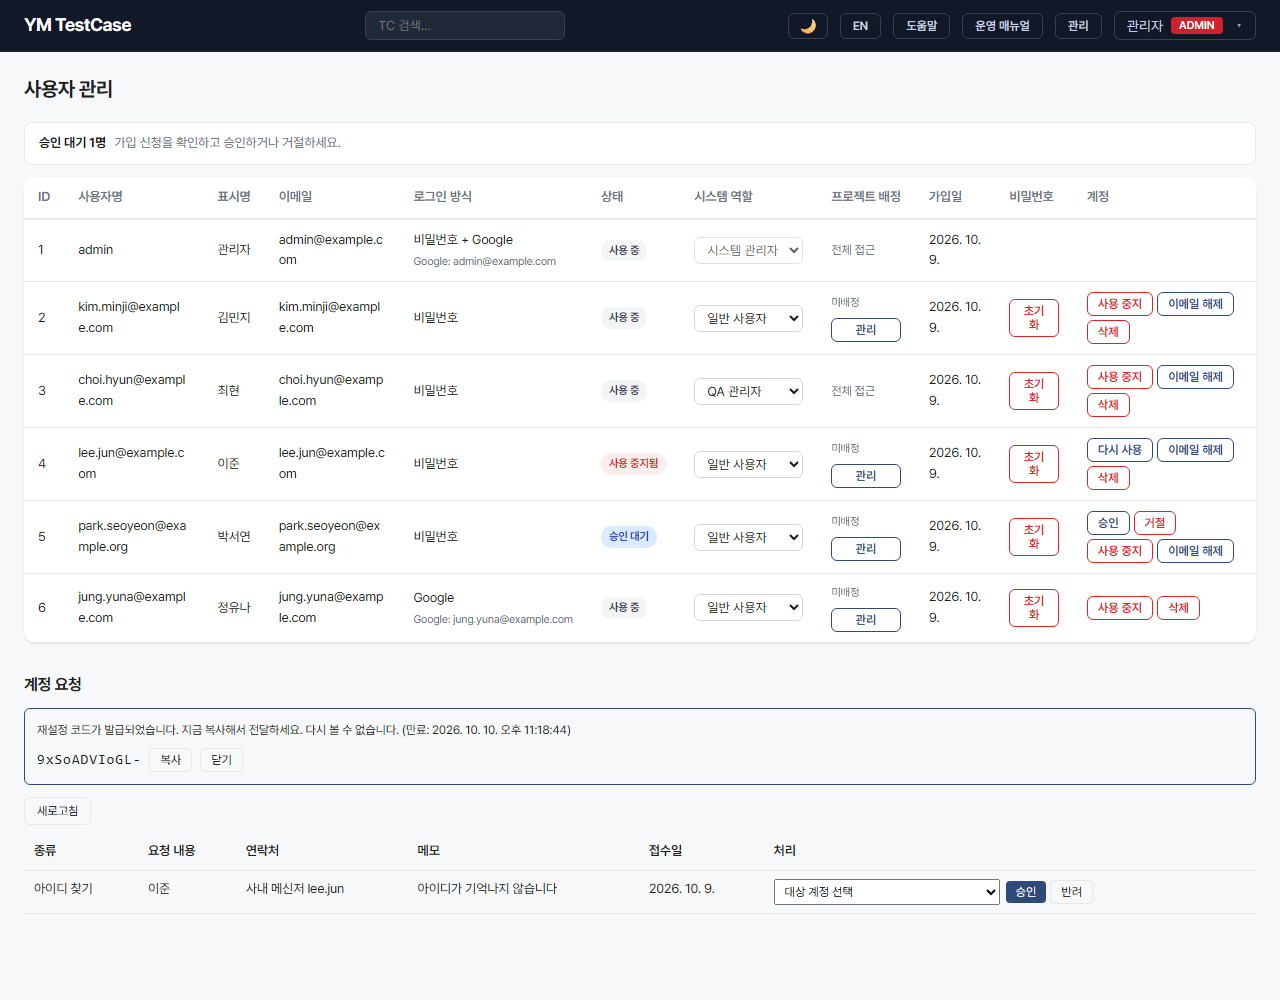
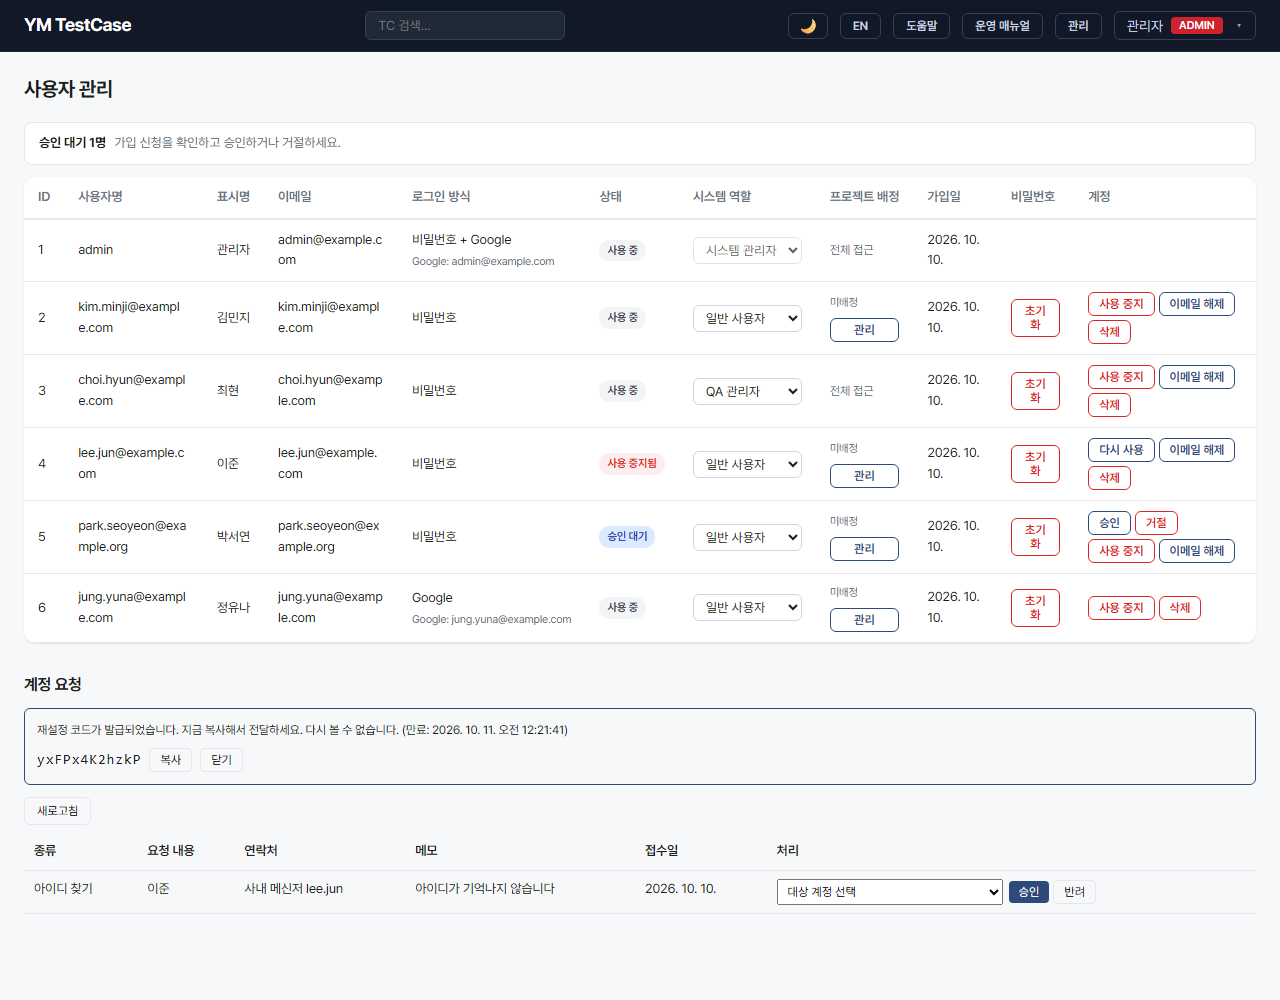
docs: 초기화 그림 재촬영과 사내 업무 가이드 갱신 (SYM-167, SYM-168)
- 운영 매뉴얼 그림 25 를 '비밀번호 초기화 완료' 창으로 재촬영
- capture-all-manual, capture-readme 의 01/02/22/25 저장 제거(소유는 capture-auth-manual)
- md 운영 매뉴얼에 5-5-2 계정 복구 요청 승인 절과 그림 25/39/40 연결
- 사내 업무 가이드 초안: 계정 발급·권한·사용자 관리·PostgreSQL·환경변수·백업·트러블슈팅·FAQ 갱신
- 가져오기 형식, 헤더 행 19행, PDF 폰트, React 19, Python 3.11~3.14, Vercel, 초기화 버튼 라벨을 코드 기준으로
- System 2.2.0.4 / FE 1.13.0.3

diff --git a/frontend/e2e/capture-auth-manual.spec.ts b/frontend/e2e/capture-auth-manual.spec.ts
@@ -1,5 +1,5 @@
 /**
- * 매뉴얼 스크린샷: 로그인 · 가입 · 계정 연결 · 사용자 관리 · 계정 요청 (System 2.2.0.1)
+ * 매뉴얼 스크린샷: 로그인 · 가입 · 계정 연결 · 사용자 관리 · 비밀번호 초기화 · 계정 요청 (System 2.2.0.4)
  *
  * 실제 DB 를 쓰지 않는다. 빈 DB 를 따로 만들고 격리 포트로 띄운다.
  * 1. 빈 DB 를 만들고 백엔드를 8018 로 띄운다. 환경변수:
@@ -33,6 +33,8 @@ async function shot(page: Page, name: string, fullPage = false) {
 test("인증 화면 매뉴얼 스크린샷", async ({ page, request }) => {
   test.setTimeout(60000);
   await page.setViewportSize({ width: 1280, height: 800 });
+  // 비밀번호 초기화가 confirm() 을 띄운다
+  page.on("dialog", (d) => void d.accept());
 
   // 01. 로그인 (Google 버튼 포함)
   await page.goto("/login");
@@ -50,10 +52,14 @@ test("인증 화면 매뉴얼 스크린샷", async ({ page, request }) => {
   await page.getByRole("button", { name: "로그인", exact: true }).click();
   await expect(page).toHaveURL(/\/projects/, { timeout: 10000 });
 
-  // 22, 25. 사용자 관리 (승인 대기 배너, 로그인 방식, 상태, 계정 버튼)
+  // 22. 사용자 관리 (승인 대기 배너, 로그인 방식, 상태, 계정 버튼)
   await page.goto("/admin");
   await expect(page.getByText("Google: admin@example.com")).toBeVisible();
   await shot(page, "22_admin_page.png");
+
+  // 25. 비밀번호 초기화 뒤 임시 비밀번호 창
+  await page.getByRole("row", { name: /kim\.minji@example\.com/ }).getByRole("button", { name: "초기화" }).click();
+  await expect(page.getByRole("heading", { name: "비밀번호 초기화 완료" })).toBeVisible();
   await shot(page, "25_admin_page_with_reset.png");
 
   // 44. 계정 연결 창
@@ -77,7 +83,6 @@ test("인증 화면 매뉴얼 스크린샷", async ({ page, request }) => {
   await expect(resetRow).toBeVisible();
   await shot(page, "39_admin_account_requests.png", true);
 
-  page.on("dialog", (d) => void d.accept());
   await resetRow.getByRole("combobox").selectOption({ label: "kim.minji@example.com (김민지)" });
   await resetRow.getByRole("button", { name: "승인" }).click();
   await expect(page.getByRole("button", { name: "복사" })).toBeVisible();

diff --git a/frontend/e2e/capture-all-manual.spec.ts b/frontend/e2e/capture-all-manual.spec.ts
@@ -89,15 +89,8 @@ test("전체 매뉴얼 스크린샷 재캡처", async ({ page, request }) => {
 
   // ========== 캡처 시작 ==========
 
-  // 01. 로그인 페이지
-  await page.goto("/login");
-  await page.waitForTimeout(500);
-  await page.screenshot({ path: path.join(SAVE_DIR, "01_login_page.png") });
-
-  // 02. 회원가입 페이지
-  await page.getByText("회원가입").click();
-  await page.waitForTimeout(500);
-  await page.screenshot({ path: path.join(SAVE_DIR, "02_register_page.png") });
+  // 01, 02, 22, 25(로그인 · 가입 · 사용자 관리 · 초기화)는 capture-auth-manual.spec.ts 가 찍는다.
+  // Google 버튼과 계정 상태가 보이는 환경이 따로 필요하고, 25 는 초기화 창을 띄운 뒤 찍어야 한다(SYM-168).
 
   // 03. 로그인 (입력 상태)
   await page.goto("/login");
@@ -256,13 +249,6 @@ test("전체 매뉴얼 스크린샷 재캡처", async ({ page, request }) => {
   await themeBtn.click();
   await page.waitForTimeout(500);
 
-  // 22. Admin 페이지 (사용자 관리)
-  await page.goto("/admin");
-  await page.waitForTimeout(2000);
-  await page.screenshot({ path: path.join(SAVE_DIR, "22_admin_page.png") });
-
-  // 25. Admin 페이지 (비밀번호 초기화 버튼 포함)
-  await page.screenshot({ path: path.join(SAVE_DIR, "25_admin_page_with_reset.png") });
 
   // 정리
   await request.delete(`/api/projects/${projId}`, { headers: h });

diff --git a/frontend/e2e/capture-readme.spec.ts b/frontend/e2e/capture-readme.spec.ts
@@ -61,12 +61,6 @@ test("README + 매뉴얼 스크린샷 (ymseo_test)", async ({ page, request }) =
   await page.goto("/login");
   await page.waitForTimeout(500);
   await page.screenshot({ path: path.join(SAVE_DIR, "login.png") });
-  await page.screenshot({ path: path.join(MANUAL_DIR, "01_login_page.png") });
-
-  // 02. 회원가입
-  await page.getByText("회원가입").click();
-  await page.waitForTimeout(500);
-  await page.screenshot({ path: path.join(MANUAL_DIR, "02_register_page.png") });
 
   // 03. 로그인 입력 상태
   await page.goto("/login");
@@ -221,9 +215,6 @@ test("README + 매뉴얼 스크린샷 (ymseo_test)", async ({ page, request }) =
   await themeBtn.click();
   await page.waitForTimeout(500);
 
-  // 22, 25. Admin 페이지
-  await page.goto("/admin");
-  await page.waitForTimeout(2000);
-  await page.screenshot({ path: path.join(MANUAL_DIR, "22_admin_page.png") });
-  await page.screenshot({ path: path.join(MANUAL_DIR, "25_admin_page_with_reset.png") });
+  // 01, 02, 22, 25(로그인 · 가입 · 사용자 관리 · 초기화)는 capture-auth-manual.spec.ts 가 찍는다.
+  // Google 버튼과 계정 상태가 보이는 환경이 따로 필요하고, 25 는 초기화 창을 띄운 뒤 찍어야 한다(SYM-168).
 });

diff --git a/frontend/src/pages/AdminManualPage.tsx b/frontend/src/pages/AdminManualPage.tsx
@@ -60,7 +60,7 @@ export default function AdminManualPage() {
               <div style={s.archCard}>
                 <div style={s.archTitle}>Backend</div>
                 <ul style={s.archList}>
-                  <li>FastAPI (Python 3.12)</li>
+                  <li>FastAPI (Python 3.11 ~ 3.14)</li>
                   <li>SQLAlchemy 2 ORM</li>
                   <li>{t("architecture.li1")}</li>
                   <li>{t("architecture.li2")}</li>

diff --git a/docs/manual_admin_confluence.md b/docs/manual_admin_confluence.md
@@ -1,7 +1,7 @@
 # YM TestCase 운영 매뉴얼 (Admin)
 
-> **최종 업데이트**: 2026-10-09
-> **버전**: 2.2.0.1
+> **최종 업데이트**: 2026-10-10
+> **버전**: 2.2.0.4
 > **대상**: Admin 역할 담당자
 > **보안 등급**: 내부 관리용
 
@@ -11,8 +11,8 @@
 
 | 구성 요소 | 기술 스택 | 비고 |
 |---|---|---|
-| **Backend** | FastAPI (Python 3.10+), SQLAlchemy ORM, Uvicorn ASGI | 포트 8008 |
-| **Frontend** | React 18, TypeScript, Vite, AG Grid, Chart.js | 포트 5173 (개발) / 80 (프로덕션) |
+| **Backend** | FastAPI (Python 3.11 ~ 3.14, 배포·CI 3.12), SQLAlchemy ORM, Alembic, Uvicorn ASGI | 포트 8008 |
+| **Frontend** | React 19, TypeScript, Vite, AG Grid, Chart.js | 포트 5173 (개발). 배포는 Vercel |
 | **Database** | PostgreSQL 17 | 로컬은 Docker(127.0.0.1:54329), 배포는 Supabase |
 | **인증** | JWT (HS256, httpOnly 쿠키 + CSRF), bcrypt 해싱, Google 로그인(OpenID Connect, 선택) | 기본 72시간, 로그인 유지 30일 |
 
@@ -137,7 +137,9 @@ npx tsc -b
 
 ### 5-4. 비밀번호 초기화
 
-1. 대상 사용자 행에서 **비밀번호 초기화** 버튼을 클릭합니다.
+> 📎 `25_admin_page_with_reset.png`
+
+1. 대상 사용자 행의 비밀번호 칸에서 **초기화** 버튼을 클릭합니다.
 2. 12자리 임시 비밀번호가 생성되어 표시됩니다.
 3. 해당 임시 비밀번호를 사용자에게 전달합니다.
 4. 사용자는 다음 로그인 시 **비밀번호 강제 변경** 화면이 표시됩니다.
@@ -166,6 +168,20 @@ npx tsc -b
 - 그 Google 계정을 쥔 계정에 기록이나 비밀번호가 있으면 연결이 거절됩니다. 그 계정의 **초기화**(비밀번호 초기화)로 Google 연결을 끊은 뒤 다시 연결합니다.
 - 퇴사자는 Workspace 계정을 지워도 앱 로그인(최대 30일)과 API 키가 남습니다. 사용 중지해야 바로 막힙니다.
 - 관리자 초기화나 계정 복구로 비밀번호를 바꾸면 그 계정의 Google 연결도 끊깁니다. 사용자가 다시 연결하면 됩니다.
+
+### 5-5-2. 계정 복구 요청 승인
+
+로그인 화면의 "계정 도움 요청"으로 접수된 아이디 찾기와 비밀번호 재설정 요청을 관리자 페이지 하단 **계정 요청**에서 처리합니다.
+
+> 📎 `39_admin_account_requests.png`
+
+1. 대기 중인 요청의 연락처와 메모로 요청자 본인을 확인합니다.
+2. 드롭다운에서 대상 계정을 고르고 **승인**합니다. 본인 확인이 어려우면 **반려**합니다.
+3. 아이디 찾기는 아이디가, 비밀번호 재설정은 1회용 코드가 화면에 표시됩니다. 요청자의 연락처로 전달합니다.
+
+> 📎 `40_admin_code_issued.png`
+
+⚠ **주의**: 코드는 서버에 해시로만 저장되고 평문은 이 화면에 **한 번만** 보입니다. 닫기 전에 복사해 전달하세요. 코드는 발급 후 24시간 안에 한 번만 쓸 수 있습니다.
 
 ### 5-6. 역할 변경 가이드라인
 
@@ -399,7 +415,7 @@ npx tsc -b
 | 파일 업로드 실패 | 50MB 초과 또는 비허용 확장자 | 파일 확인 |
 | 한글 깨짐 | 소스 파일 인코딩 문제 | UTF-8로 재저장 후 빌드 |
 | Excel Import 실패 | 헤더 매핑 실패 | 지원 헤더 형식 확인 |
-| PDF 한글 깨짐 | 서버에 한글 폰트 미설치 | Malgun Gothic 설치 |
+| PDF 한글 깨짐 | 쓸 수 있는 한글 폰트가 없음(`backend/fonts` 의 Pretendard 가 배포에서 빠졌고 서버에 맑은 고딕·나눔고딕도 없음) | `backend/fonts/Pretendard-*.ttf` 를 배포에 포함. 서버 로그 "한글 폰트를 찾을 수 없습니다" 로 확인 |
 | 모든 API 가 503 | DB 스키마가 코드보다 옛 버전 | backend 에서 `python -m alembic upgrade head` |
 | 저장 시 "다른 작업이 진행 중입니다" | 같은 프로젝트의 구조 변경이 동시에 몰림 | 잠시 뒤 다시 시도. 잦으면 `LOCK_WAIT_TIMEOUT_MS` 상향 |
 | 로그인 화면에 Google 버튼이 없음 | `GOOGLE_CLIENT_ID` 가 비어 있음 | 3-1 절처럼 `GOOGLE_*` 값을 넣고 서버 재시작 |
@@ -470,8 +486,11 @@ cp -r backup/uploads_20261009/* backend/uploads/
 | `20_dark_mode_project.png` | 다크모드 프로젝트 | 사용자 매뉴얼 12 |
 | `21_dark_mode_dashboard.png` | 다크모드 대시보드 | 사용자 매뉴얼 12 |
 | `22_admin_page.png` | 관리자 페이지 | 운영 매뉴얼 5 |
+| `25_admin_page_with_reset.png` | 비밀번호 초기화 뒤 임시 비밀번호 | 운영 매뉴얼 5-4 |
+| `39_admin_account_requests.png` | 계정 복구 요청 목록 | 운영 매뉴얼 5-5-2 |
+| `40_admin_code_issued.png` | 재설정 코드 발급 | 운영 매뉴얼 5-5-2 |
 | `23_tc_toolbar.png` | TC 관리 툴바 | 사용자 매뉴얼 6-1 |
 
 ---
 
-*YM TestCase v2.2.0.1 | 운영 매뉴얼 (Admin 전용)*
+*YM TestCase v2.2.0.4 | 운영 매뉴얼 (Admin 전용)*

diff --git a/docs/manual_user_confluence.md b/docs/manual_user_confluence.md
@@ -1,7 +1,7 @@
 # YM TestCase 사용자 매뉴얼
 
-> **최종 업데이트**: 2026-10-09
-> **버전**: 2.2.0.1
+> **최종 업데이트**: 2026-10-10
+> **버전**: 2.2.0.4
 > **대상**: 전체 사용자
 
 ---
@@ -202,7 +202,7 @@
 | Undo / Redo | 실행 취소/재실행 | 그리드 편집 작업을 취소하거나 재실행 |
 | TC ID 자동채우기 | ID 자동 생성 | 비어있는 TC ID 필드를 자동으로 채움 |
 | 일괄 변경 | 벌크 수정 | 선택한 TC의 특정 필드를 일괄 변경 |
-| Excel Import | 엑셀 가져오기 | .xlsx, .xls 파일에서 TC 일괄 가져오기 (10MB 이하) |
+| Excel Import | 엑셀 가져오기 | .xlsx, CSV, Markdown 파일에서 TC 일괄 가져오기 (10MB 이하). .xls 는 .xlsx 로 다시 저장 |
 | Excel Export | 엑셀 내보내기 | 현재 TC 목록을 서식 적용된 엑셀로 다운로드 |
 | 변경이력 | 수정 내역 확인 | TC별 필드 변경 이력 (변경 전/후, 변경자, 시각) |
 | 바꾸기 | 찾기/바꾸기 | 선택한 셀 범위에서 텍스트를 찾아 일괄 치환 |
@@ -499,4 +499,4 @@ YMTC_API_KEY=ymtc_... node scripts/ymtc-upload.mjs \
 
 ---
 
-*YM TestCase v2.2.0.1 | 사용자 매뉴얼*
+*YM TestCase v2.2.0.4 | 사용자 매뉴얼*

diff --git a/Release_note.md b/Release_note.md
@@ -21,11 +21,29 @@
 ## 현재 버전
 
 ```
-YM TestCase System  v2.2.0.3  (2026-10-10)
-├── Frontend       v1.13.0.2
+YM TestCase System  v2.2.0.4  (2026-10-10)
+├── Frontend       v1.13.0.3
 ├── Backend        v2.2.0.1
 └── Database       v1.2.0.0
 ```
+
+---
+
+## System 2.2.0.4 / FE 1.13.0.3 - [docs] 초기화 그림 재촬영과 사내 업무 가이드 갱신 (2026-10-10)
+
+### 이슈
+
+- SYM-168 운영 매뉴얼의 비밀번호 초기화 그림(25)이 사용자 관리 그림(22)과 같은 화면이다 (enhancement/trivial/frontend)
+- SYM-167 사내 업무 가이드 초안(docs/confluence_draft.md)이 인증 기능 전 내용으로 남아 있다 (enhancement/trivial/etc)
+
+### 변경
+
+- 그림 25 를 초기화 완료 창으로 재촬영, 다른 캡처 스크립트의 01/02/22/25 저장 제거. md 운영 매뉴얼에 계정 복구 요청 승인 절
+- 사내 업무 가이드, 운영 매뉴얼: 인증·PostgreSQL·백업·가져오기 형식·PDF 폰트 서술을 코드 기준으로 수정
+
+### 영향
+
+- 매뉴얼 화면과 docs 문서만 변경
 
 ---
 
